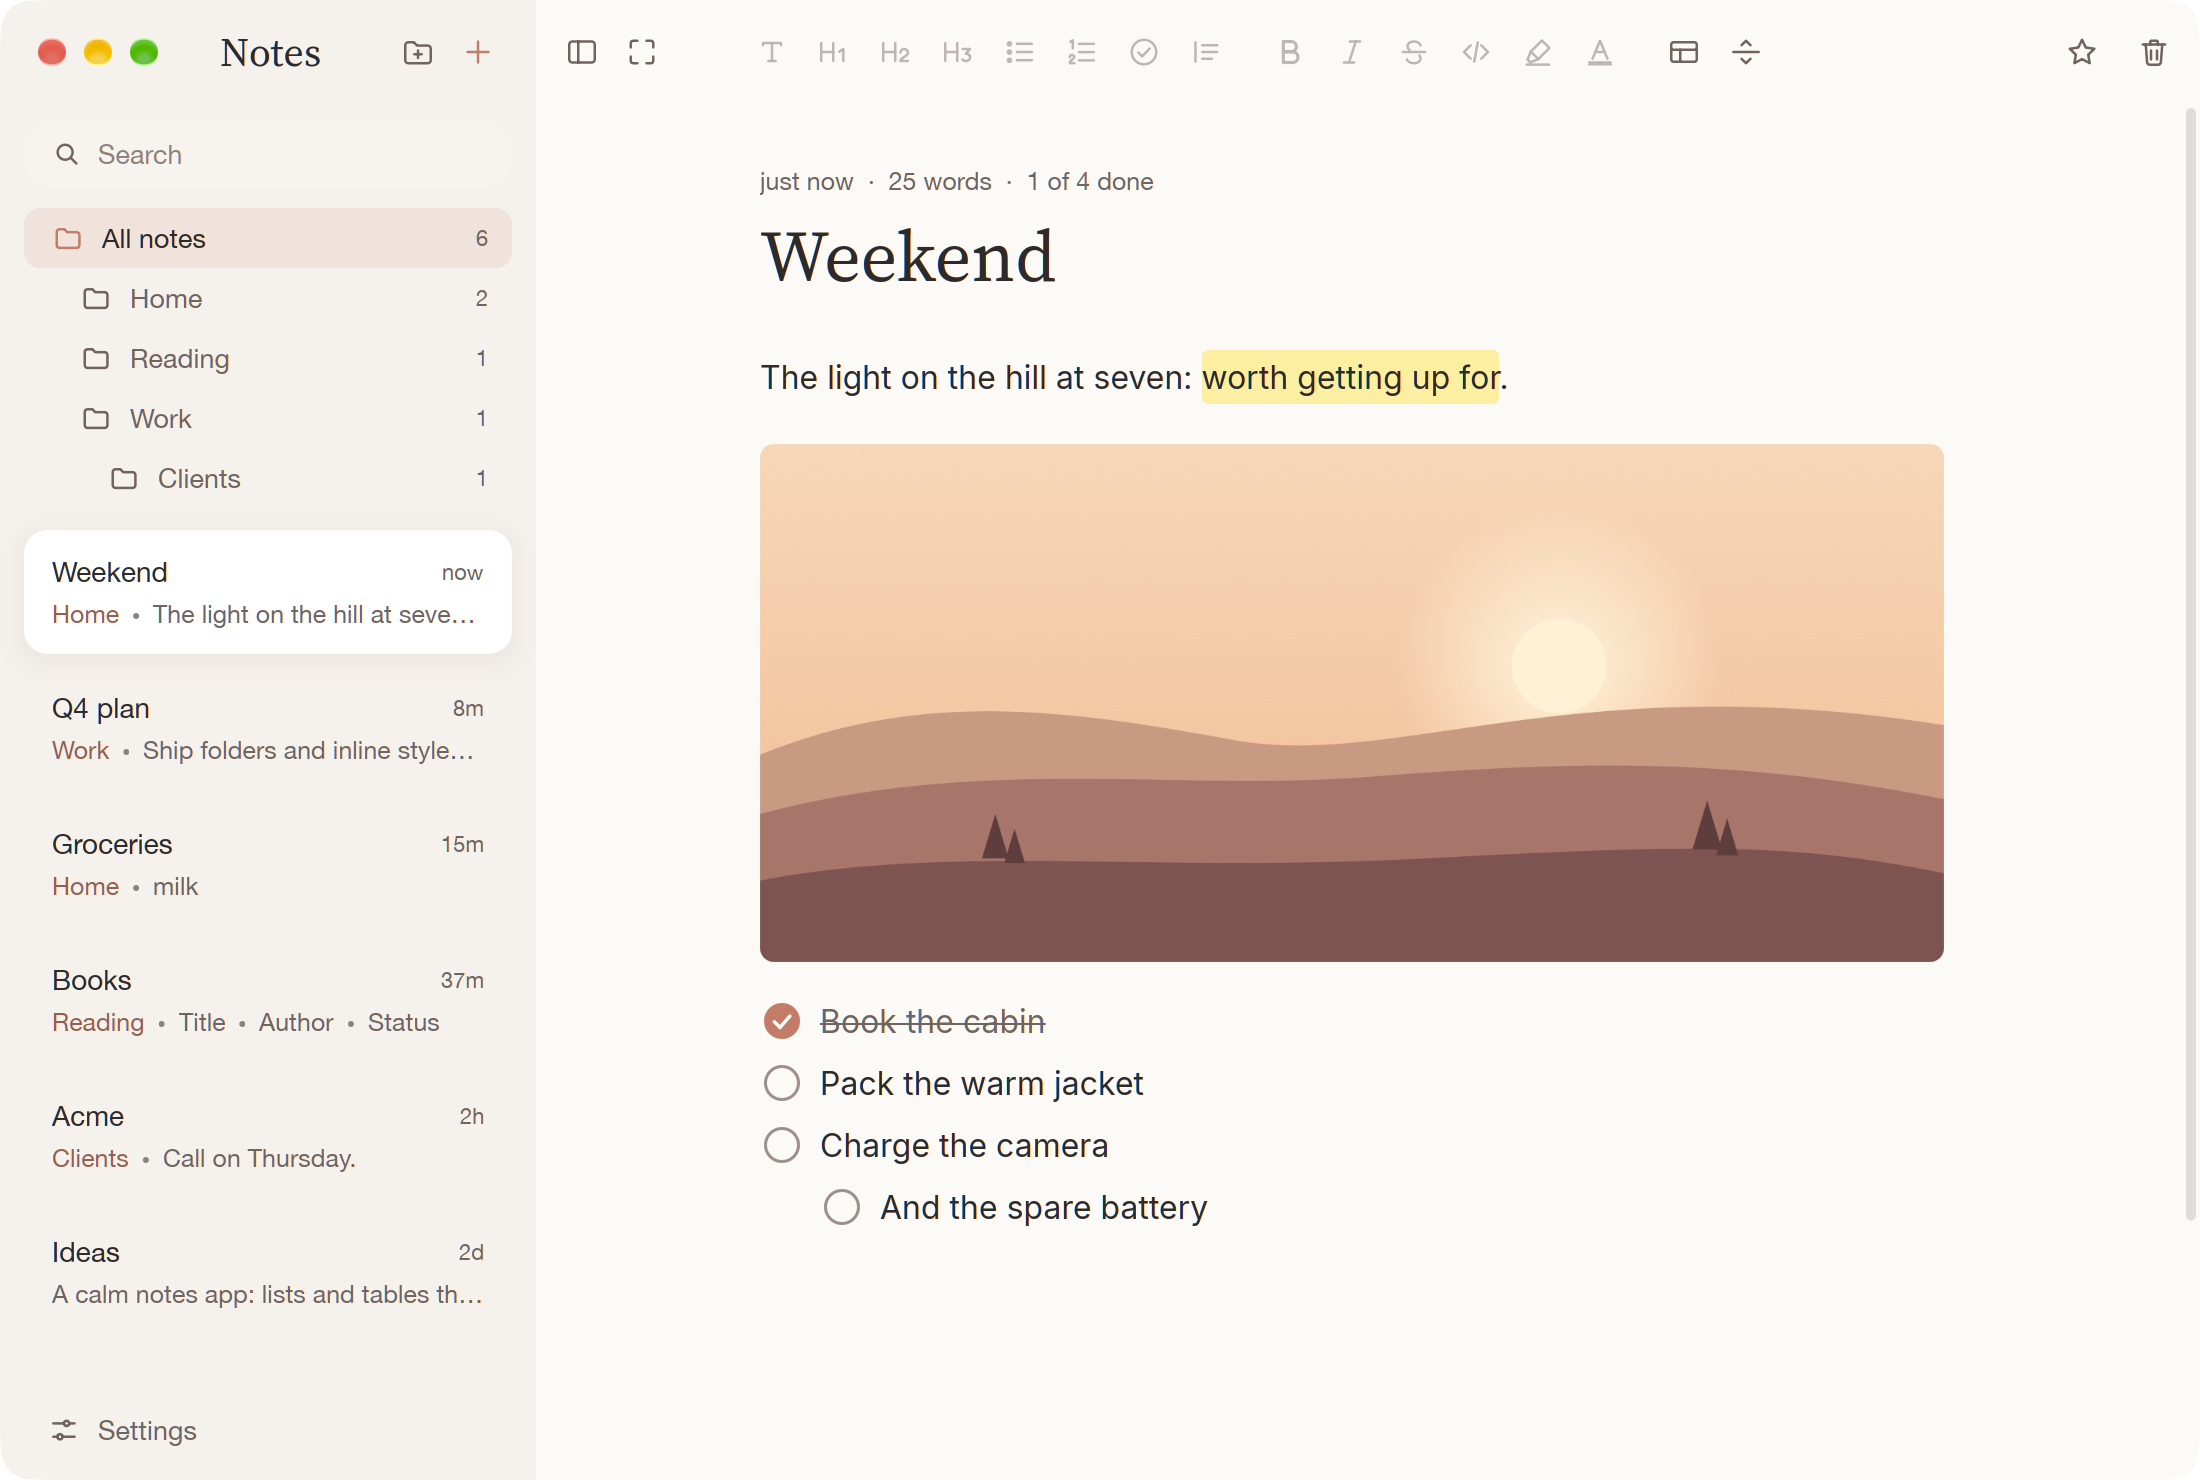
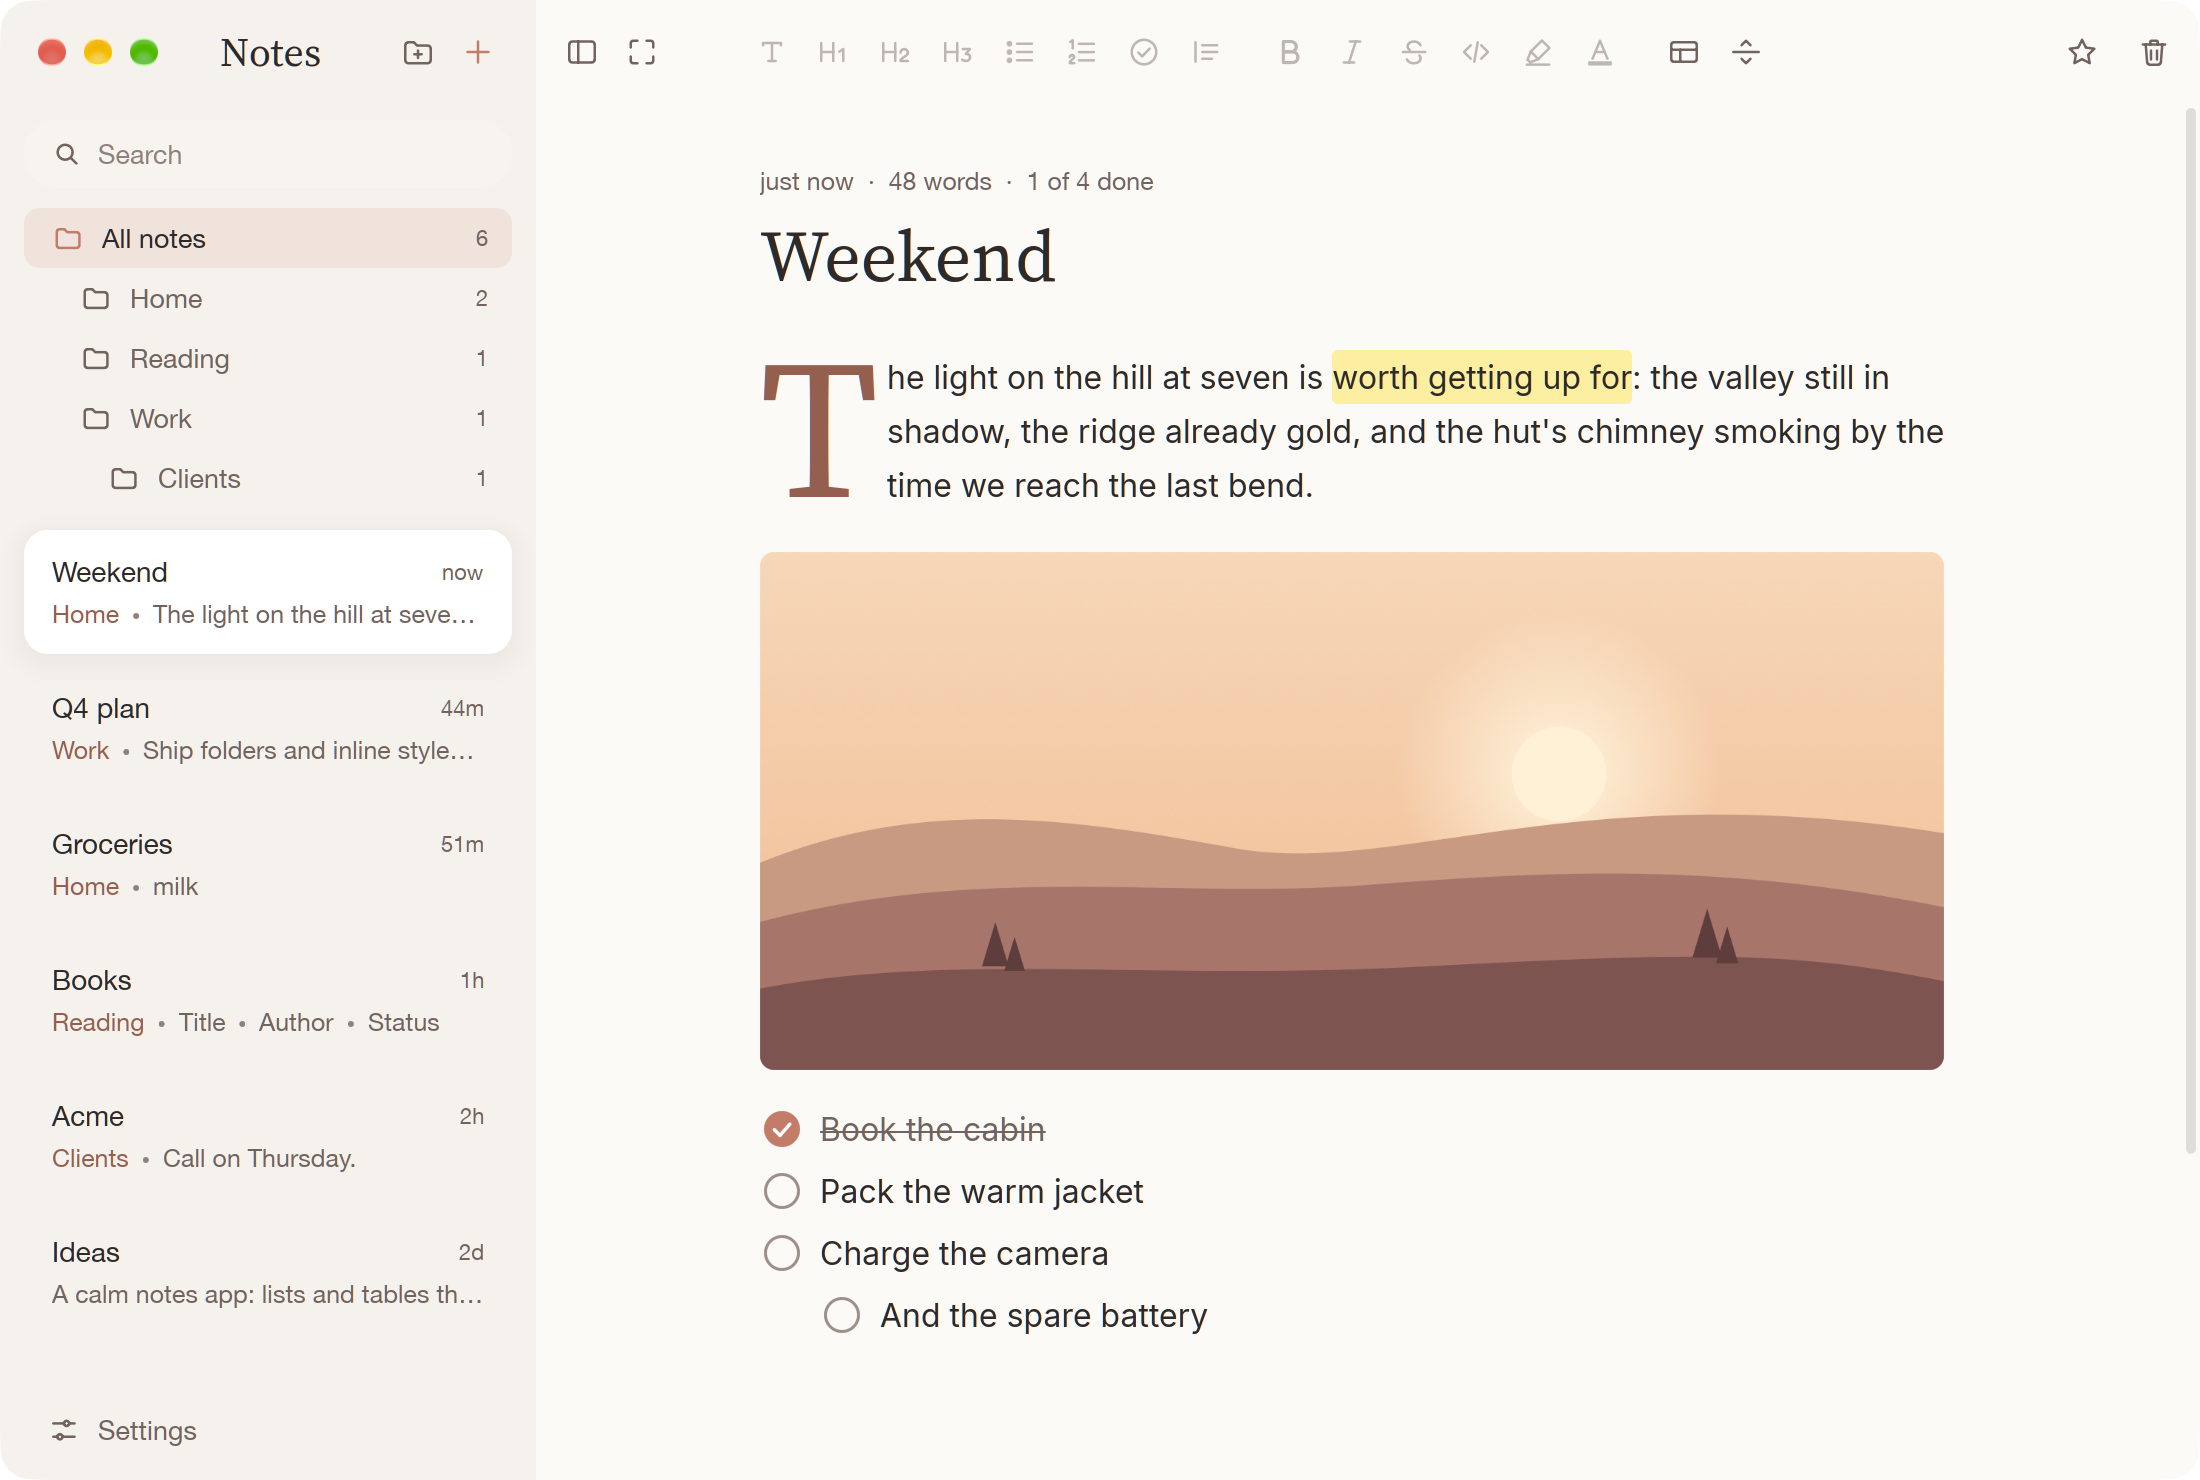
The README's screenshots show the dropped first letter and its settings

Changed region(s): [[0.34, 0.4041, 0.8964, 0.9014], [0.34, 0.2176, 0.8964, 0.373], [0.9891, 0.777, 1.0, 0.8392]]

diff --git a/README.md b/README.md
@@ -6,11 +6,11 @@ Carnet is a small, fast, native notes app for macOS, Windows and Linux. Every no
 
 | Light | Dark |
 |---|---|
-| ![A note with a picture, a highlight and a checklist, in the Linen palette](docs/light.png) | ![A table of books, in the Linen palette's dark mode](docs/dark.png) |
+| ![A note with a dropped first letter, a highlight, a picture and a checklist, in the Linen palette](docs/light.png) | ![A table of books, in the Linen palette's dark mode](docs/dark.png) |
 
 | Settings | A narrow window |
 |---|---|
-| ![The settings page: palettes, theme, page width, density, text size, dividers, fonts](docs/settings.png) | ![A note in a narrow window, the library tucked away](docs/narrow.png) |
+| ![The settings page: theme, page width, density, text size, dividers, the first letter's height, font and colour, and the fonts](docs/settings.png) | ![A note in a narrow window, the library tucked away](docs/narrow.png) |
 
 A *carnet* is French for a small notebook.
 
